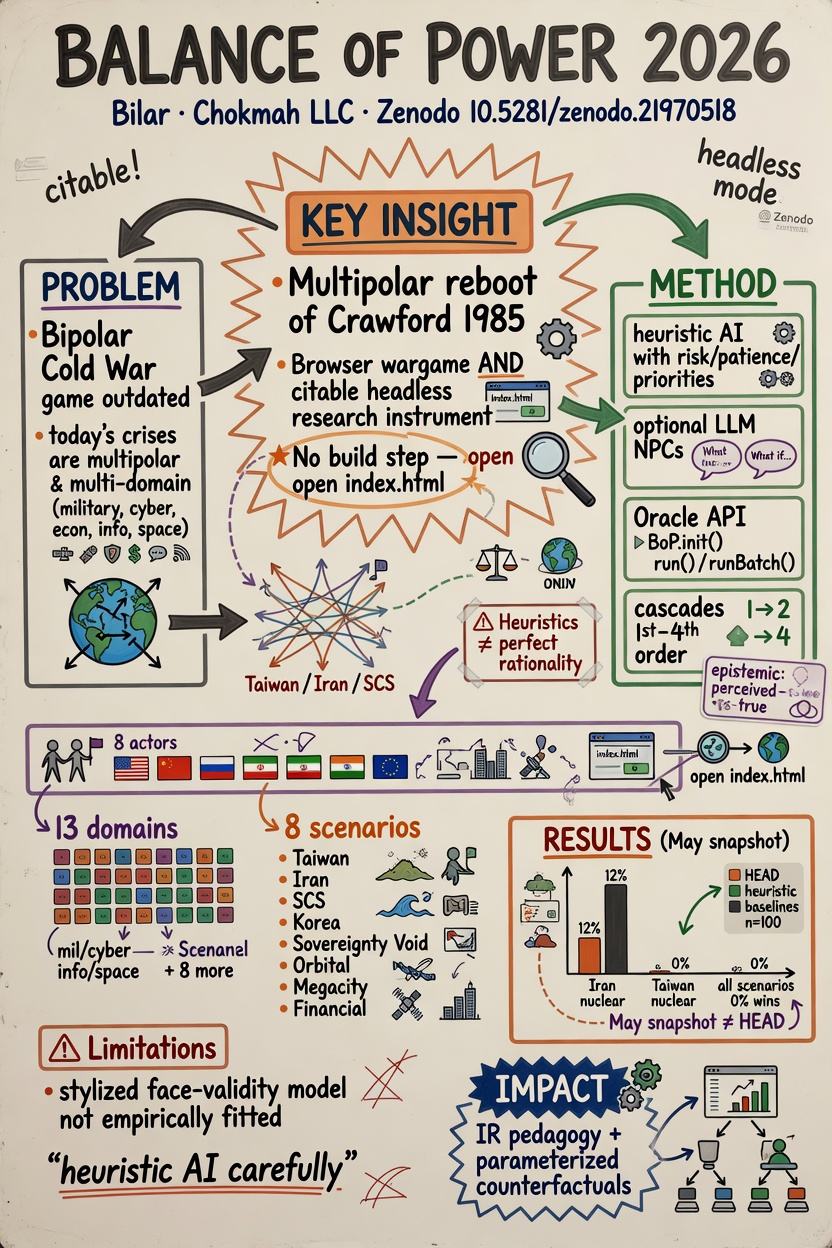
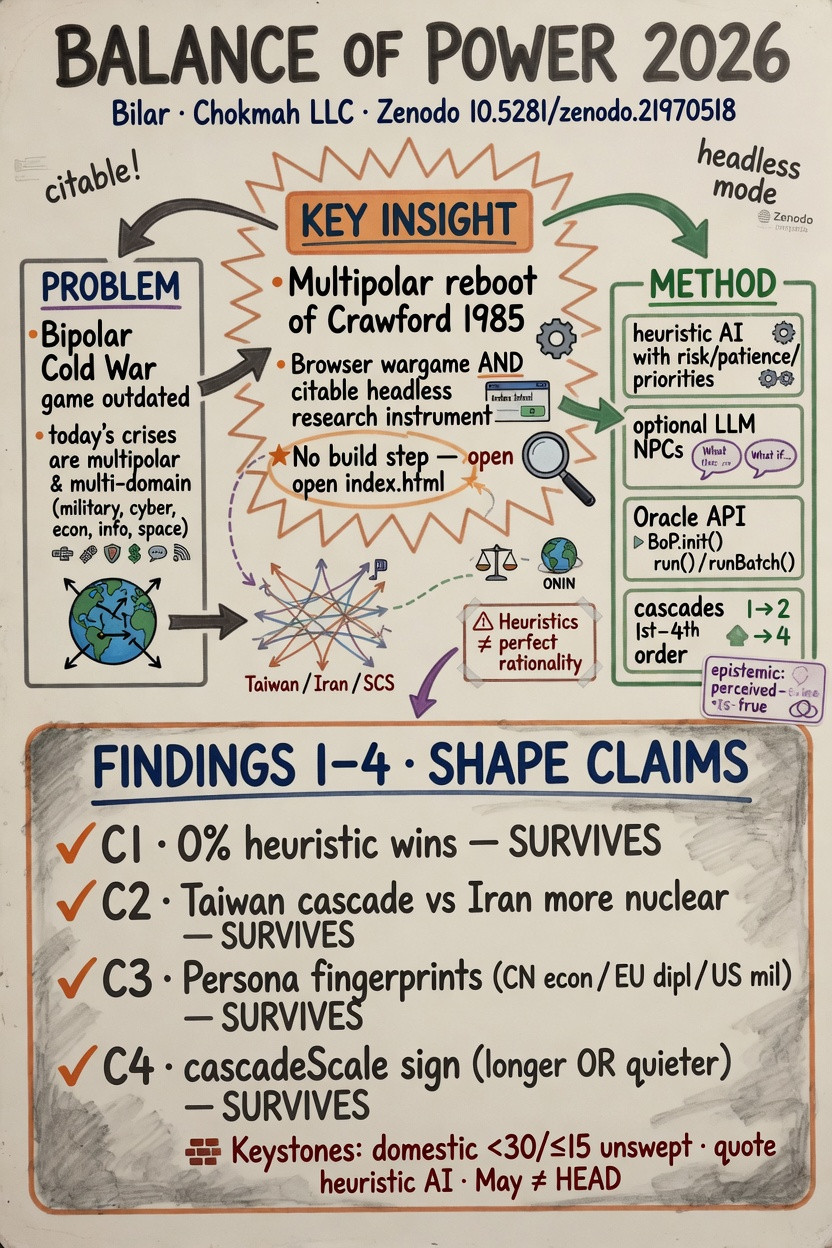
Revise BoP2026 sketchnote: Findings 1-4 shape claims.
Replace unintelligible rate bars with C1-C4 survival map and keystone caveats; refresh alt text.

diff --git a/research/balance-of-power-2026-21970518/index.html b/research/balance-of-power-2026-21970518/index.html
@@ -154,7 +154,7 @@
     <div class="poster">
       <a href="https://chokmah.me/assets/sketchnote-zenodo-21970518.png">
         <img src="https://chokmah.me/assets/sketchnote-zenodo-21970518.png" width="563" height="845"
-             alt="Sketchnote for Balance of Power 2026: multipolar reboot of Crawford 1985; browser wargame and citable headless research instrument; eight actors, thirteen domains, eight scenarios; cascade and epistemic dynamics">
+             alt="Sketchnote for Balance of Power 2026: multipolar reboot of Crawford 1985; browser wargame and headless research instrument; Findings 1-4 shape claims C1-C4 survive; cascade and epistemic dynamics">
       </a>
       <p class="cap">Sketchnote for v2.13.2 (CC BY 4.0). <a href="https://chokmah.me/assets/sketchnote-zenodo-21970518.png">Full-size PNG</a>.</p>
     </div>
